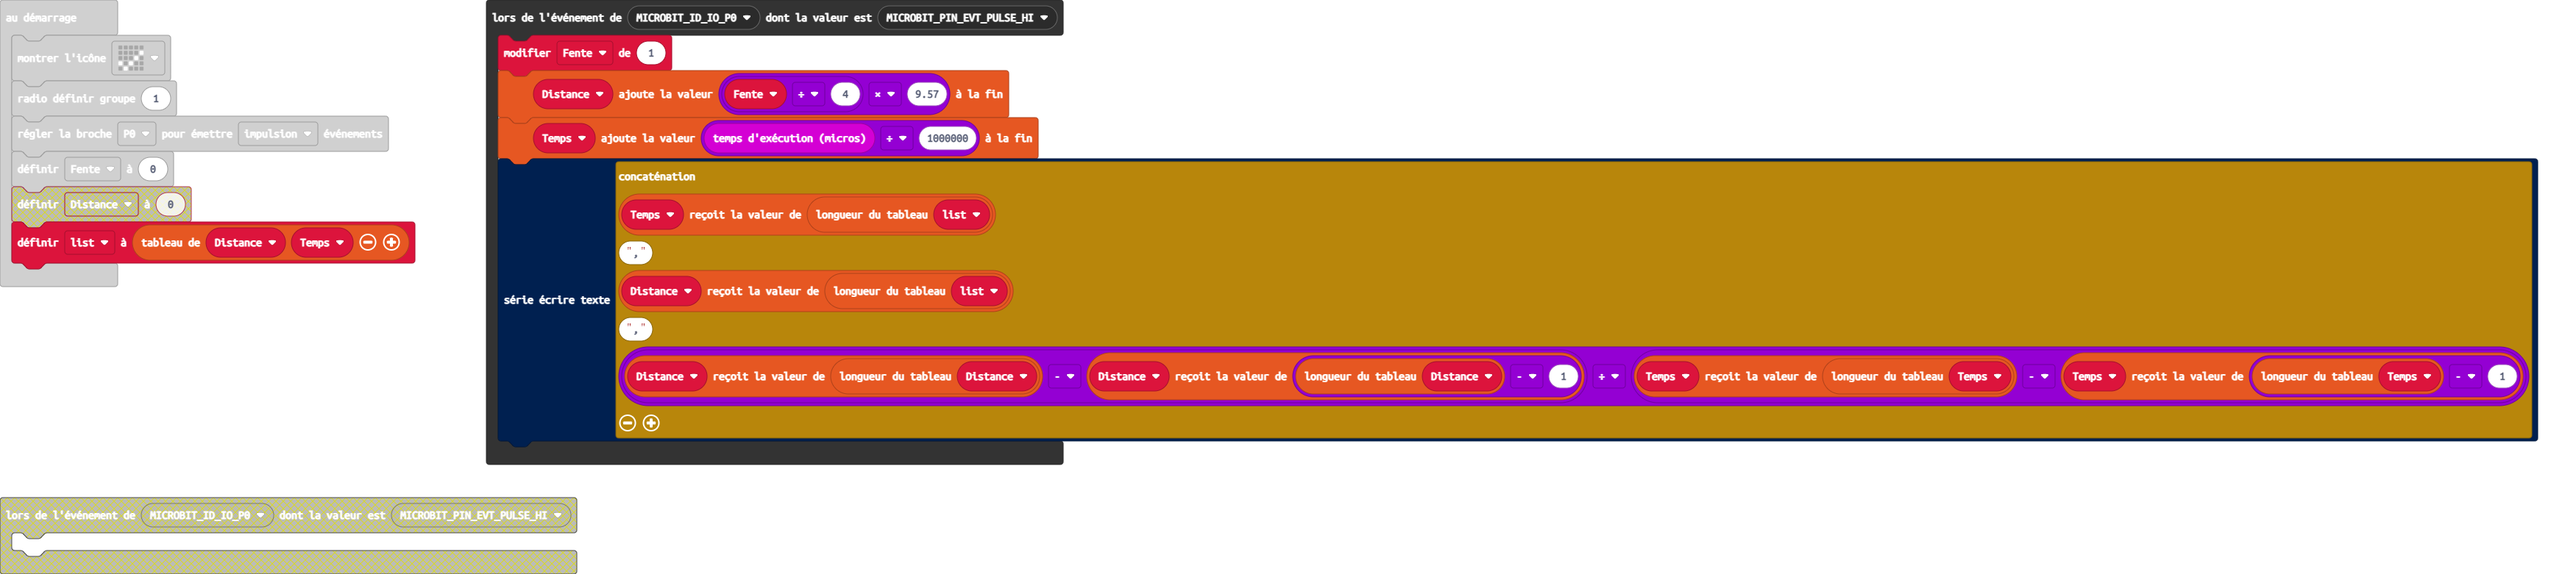
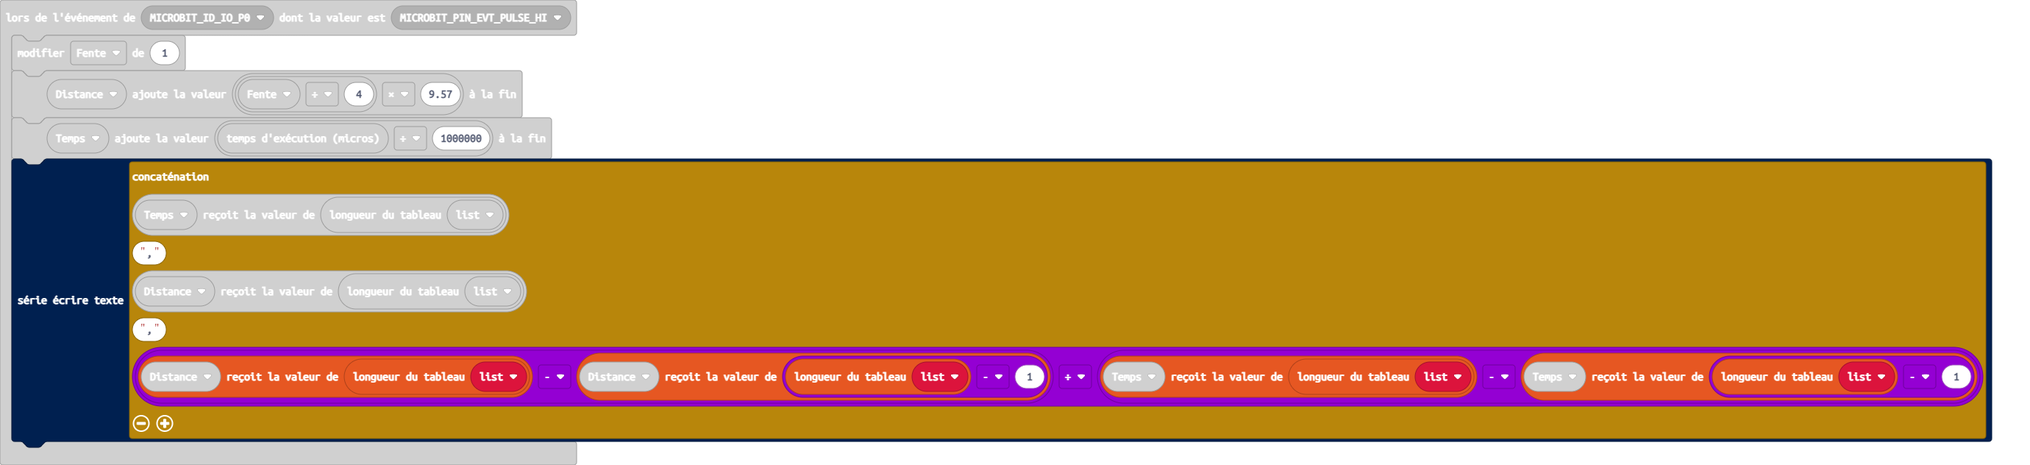
Mise à jour main.blocks, main.ts

diff --git a/main.ts b/main.ts
@@ -2,7 +2,7 @@ control.onEvent(EventBusSource.MICROBIT_ID_IO_P0, EventBusValue.MICROBIT_PIN_EVT
     Fente += 1
     Distance.push(Fente / 4 * 9.57)
     Temps.push(input.runningTimeMicros() / 1000000)
-    serial.writeString("" + Temps[list.length] + "," + Distance[list.length] + "," + (Distance[Distance.length] - Distance[Distance.length - 1]) / (Temps[Temps.length] - Temps[Temps.length - 1]))
+    serial.writeString("" + Temps[list.length] + "," + Distance[list.length] + "," + (Distance[list.length] - Distance[list.length - 1]) / (Temps[list.length] - Temps[list.length - 1]))
 })
 let Temps: number[] = []
 let Distance: number[] = []
